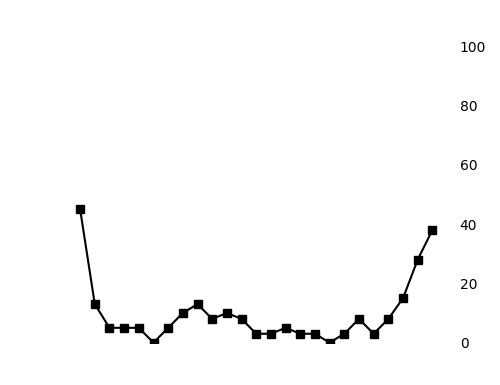
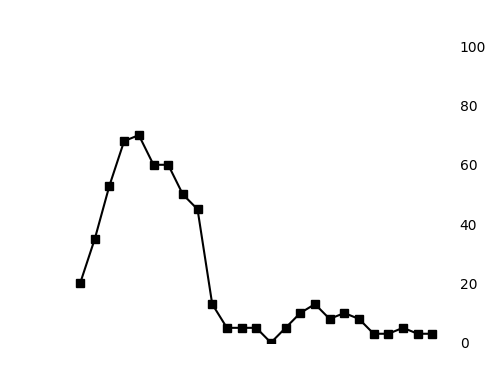
fix: pd.dataframe[date], jikannno zure

diff --git a/src/draw_weather.py b/src/draw_weather.py
@@ -1,10 +1,12 @@
 import matplotlib.pyplot as plt
 import matplotlib.dates as mdates
+import pandas as pd
+from PIL import ImageOps
+from datetime import datetime, timedelta
+
 from draw import Draw
 import requestAPI
 import xbm2img
-from PIL import ImageOps
-from datetime import datetime, timedelta
 from icon_map import icon_map
 
 class DrawWeather():
@@ -14,6 +16,8 @@ class DrawWeather():
         now = datetime.now()
         self.start = now.strftime("%Y-%m-%d %H:00")
         self.end = (now + timedelta(days=1)).strftime("%Y-%m-%d %H:00")
+        self.use_data = self.weather_data[self.weather_data["date"].between(self.start, self.end)]
+        print(self.weather_data)
 
     def generate(self):
         self.draw_glaph_field()
@@ -22,7 +26,6 @@ class DrawWeather():
         return self.draw.to_bytes()
     
     def generate_glaph_image(self):
-        use_data = self.weather_data[self.weather_data["date"].between(self.start, self.end)]
         pixel_width = 500
         pixel_height = 385
         dpi = 100
@@ -31,7 +34,7 @@ class DrawWeather():
 
         fig1, ax1 = plt.subplots(figsize=(figsize_width, figsize_height), dpi=dpi)
 
-        ax1.plot(use_data["date"], use_data["temperature"], marker="o", color="black")
+        ax1.plot(self.use_data["date"], self.use_data["temperature"], marker="o", color="black")
         ax1.spines['right'].set_visible(False)
         ax1.spines['top'].set_visible(False)
         ax1.spines['left'].set_visible(False)
@@ -43,7 +46,7 @@ class DrawWeather():
         plt.savefig(path1)
 
         fig2, ax2 = plt.subplots(figsize=(figsize_width, figsize_height), dpi=dpi)
-        ax2.plot(use_data["date"], use_data["precipitation_probability"], marker="s", color="black")
+        ax2.plot(self.use_data["date"], self.use_data["precipitation_probability"], marker="s", color="black")
         ax2.set_ylim(0, 100)
         ax2.yaxis.tick_right()
         ax2.spines['right'].set_visible(False)
@@ -63,9 +66,9 @@ class DrawWeather():
         self.draw.img_path(path2, -20, 107, 1, self.draw.RED)
         x = 50
         for i in range(4):
-            ind = int(self.weather_data.iloc[i*8]["weather_code"])
+            ind = int(self.use_data.iloc[i*8]["weather_code"])
             nightdayflg = ""
-            if 6 < (self.weather_data.iloc[i*8]["date"].hour+12) % 24 < 18:
+            if 6 < self.use_data.iloc[i*8]["date"].hour < 18:
                 nightdayflg = "day"
             else:
                 nightdayflg = "night"

diff --git a/src/icon_map.py b/src/icon_map.py
@@ -6,28 +6,28 @@ icon_map = {
         3: "cloud_sun",
         45: "cloud",
         48: "cloud",
-        51: "rain_sun",
-        53: "rain_sun",
-        55: "rain_sun",
+        51: "rain0_sun",
+        53: "rain0_sun",
+        55: "rain0_sun",
         56: "rain_snow",
         57: "rain_snow",
-        61: "rain_sun",
-        63: "rain_sun",
-        65: "rain_sun",
+        61: "rain1_sun",
+        63: "rain1_sun",
+        65: "rain1_sun",
         66: "rain_snow",
         67: "rain_snow",
         71: "snow_sun",
         73: "snow_sun",
         75: "snow_sun",
         77: "snow_sun",
-        80: "rain",
-        81: "rain",
-        82: "rain",
+        80: "rain2",
+        81: "rain2",
+        82: "rain2",
         85: "rain_snow",
         86: "rain_snow",
-        95: "lightning",
-        96: "lightning",
-        99: "lightning",
+        95: "rain_lightning",
+        96: "rain_lightning",
+        99: "rain_lightning"
     },
     "night": {
         0: "moon",
@@ -36,23 +36,23 @@ icon_map = {
         3: "cloud_moon",
         45: "cloud",
         48: "cloud",
-        51: "rain_moon",
-        53: "rain_moon",
-        55: "rain_moon",
+        51: "rain0",
+        53: "rain0",
+        55: "rain0",
         56: "rain_snow",
         57: "rain_snow",
-        61: "rain_moon",
-        63: "rain_moon",
-        65: "rain_moon",
+        61: "rain1_moon",
+        63: "rain1_moon",
+        65: "rain1_moon",
         66: "rain_snow",
         67: "rain_snow",
         71: "snow_moon",
         73: "snow_moon",
         75: "snow_moon",
         77: "snow_moon",
-        80: "rain",
-        81: "rain",
-        82: "rain",
+        80: "rain2",
+        81: "rain2",
+        82: "rain2",
         85: "rain_snow",
         86: "rain_snow",
         95: "lightning",

diff --git a/src/requestAPI.py b/src/requestAPI.py
@@ -59,7 +59,9 @@ def get_weather():
     }
 
     hourly_dataframe = pd.DataFrame(data=hourly_data)
+    hourly_dataframe["date"] += pd.to_timedelta("9 hours")
     return hourly_dataframe
 
 
-# print(get_weather())
+if __name__ == "__main__":
+    print(get_weather())
